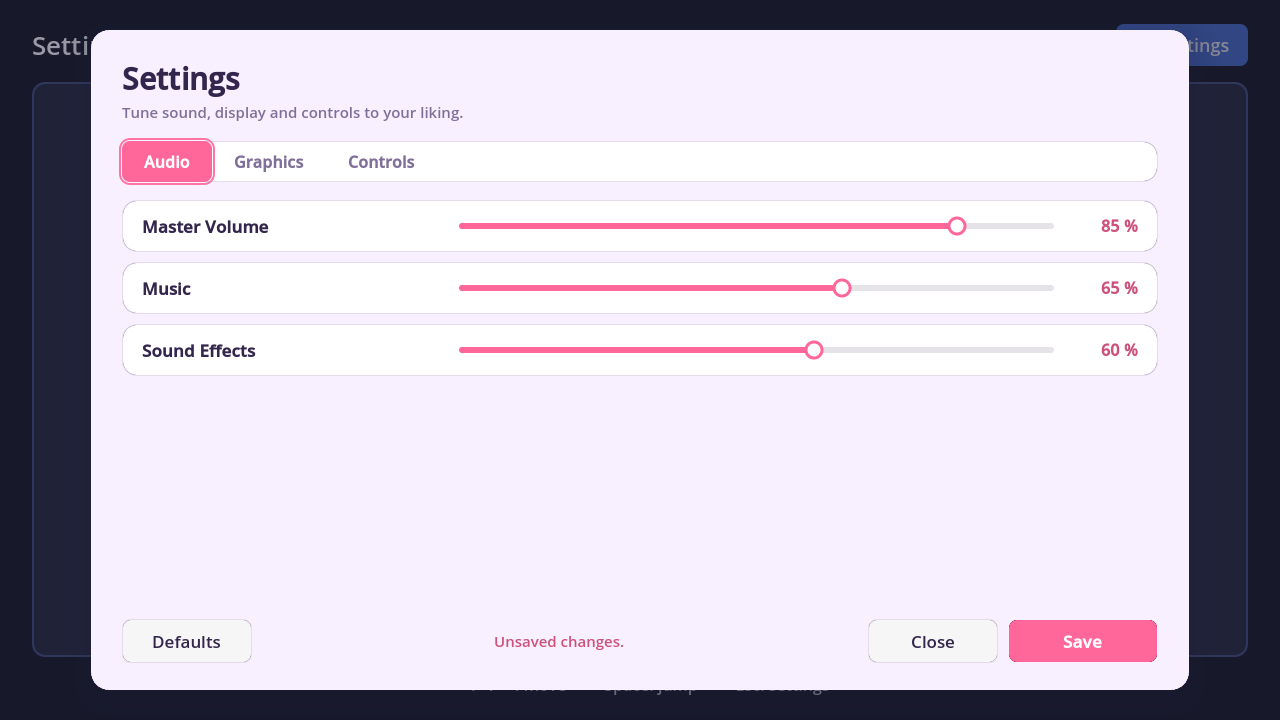
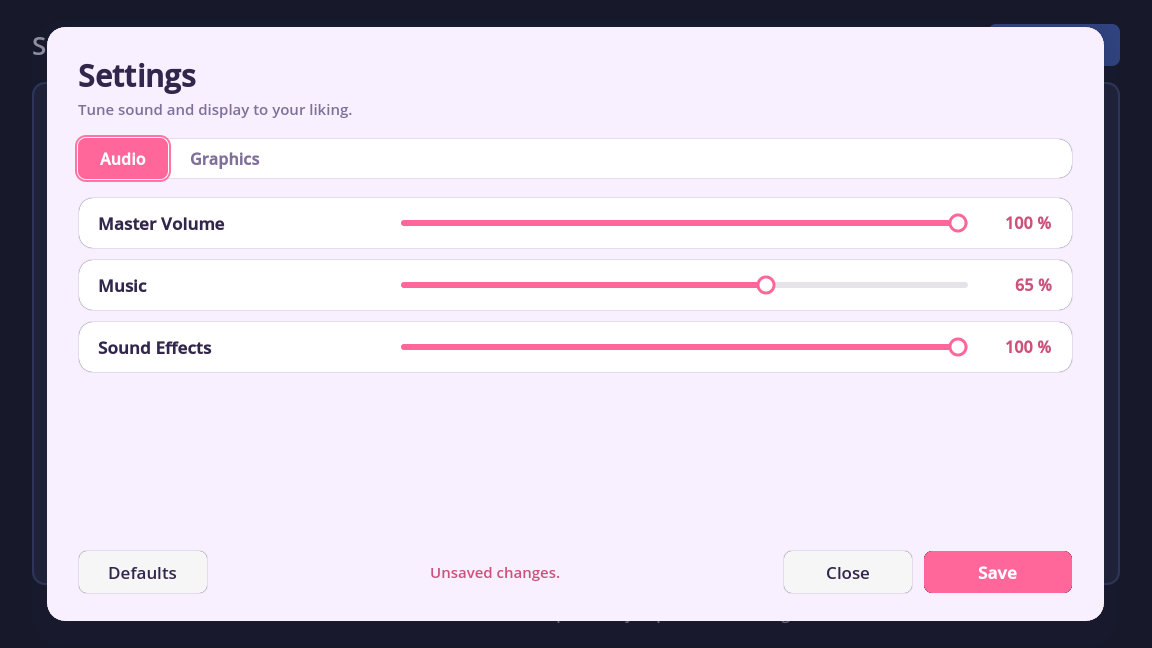
Settings Menu Lite 1.0.1: remove the in-game PRO upsell
The Lite menu now has only the Audio and Graphics tabs. The PRO link
stays in the README and plugin description.

Claude-Session: https://claude.ai/code/session_01XTaB9ovagepCs6WcCLtVC4

diff --git a/README.md b/README.md
@@ -4,7 +4,8 @@
 
 A clean, ready-to-use settings menu for Godot 4.2+. Add it in two minutes and ship your game with proper options.
 
-![Audio tab](screenshots/audio.gif)
+![Audio tab](screenshots/audio.png)
+![Graphics tab](screenshots/graphics.png)
 
 ## Features
 
@@ -17,7 +18,7 @@ A clean, ready-to-use settings menu for Godot 4.2+. Add it in two minutes and sh
 - **100% typed GDScript**, native Control nodes, no external assets.
 - Demo scene included.
 
-![Themes](screenshots/themes.png)
+![Themes (shown with the PRO edition's extra Controls tab)](screenshots/themes.png)
 
 ## Installation
 
